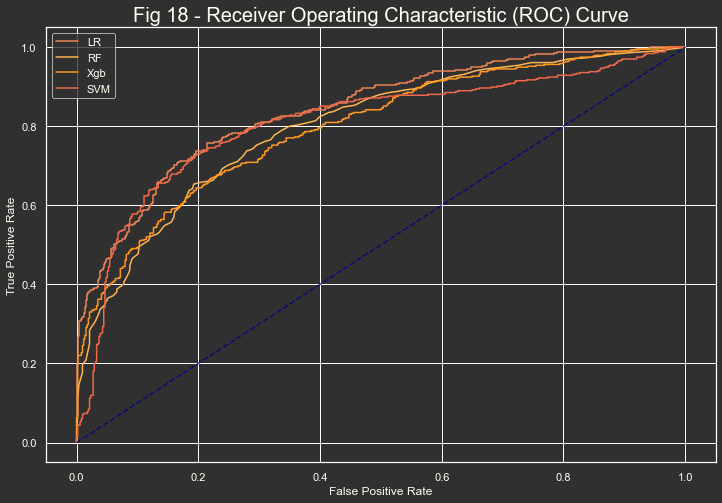
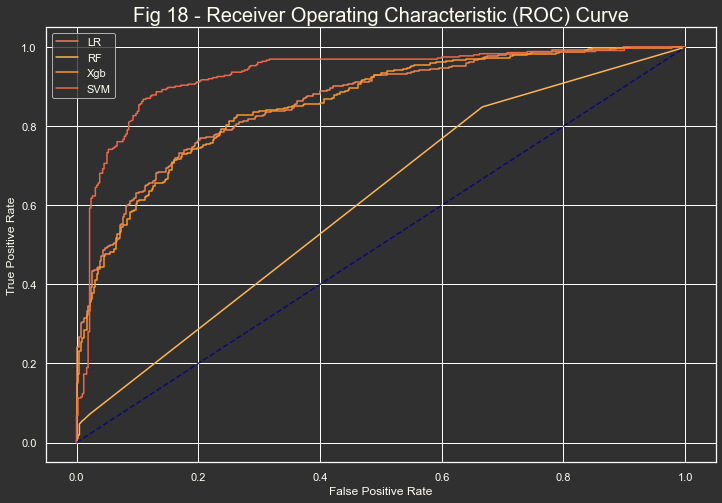
.

diff --git a/md/molletweather/MolletWeather.md b/md/molletweather/MolletWeather.md
@@ -778,10 +778,10 @@ plt.legend()
 plt.show();
 ```
 
-    LR  AUC: 0.84
-    RF  AUC: 0.80
-    Xgb  AUC: 0.80
-    SVM  AUC: 0.81
+    LR  AUC: 0.86
+    RF  AUC: 0.61
+    Xgb  AUC: 0.86
+    SVM  AUC: 0.93
     
 
 
